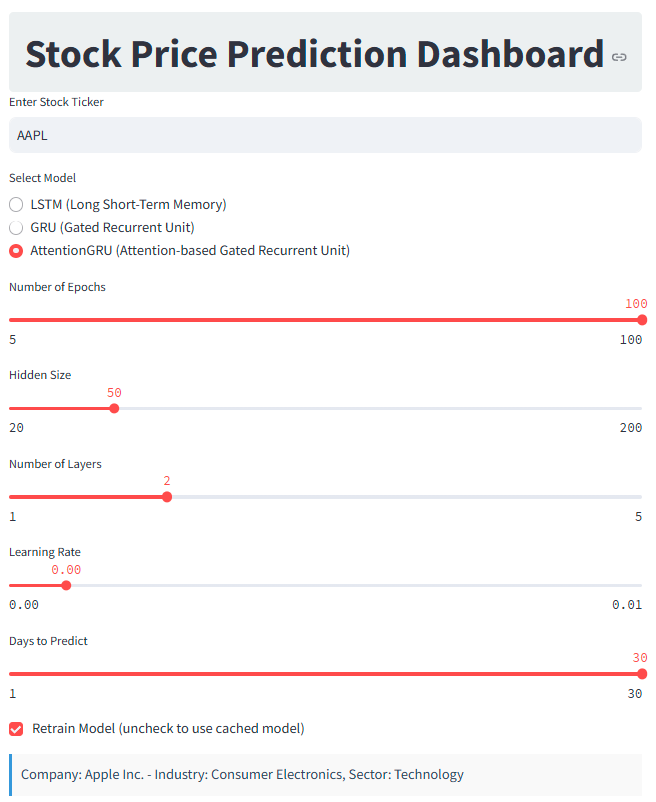
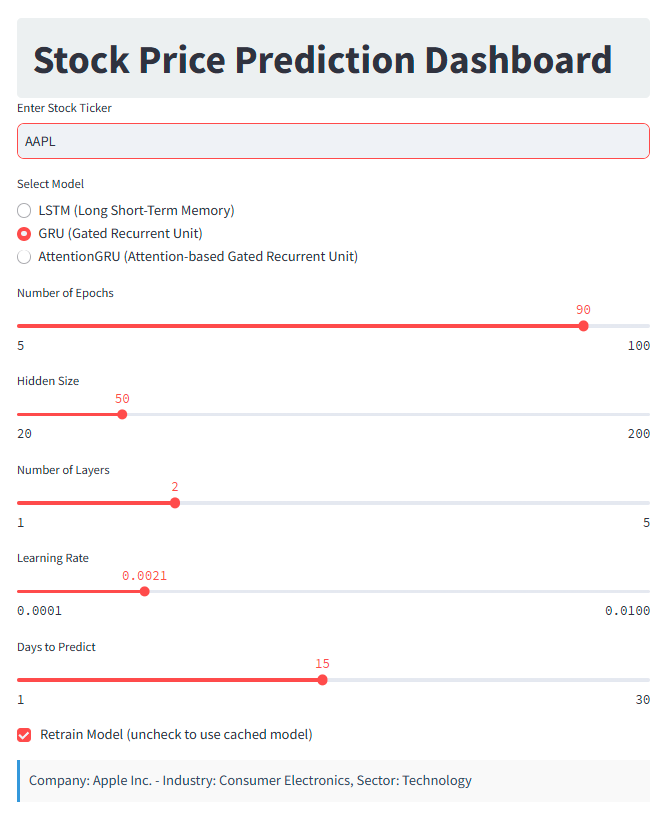
Fixed number of decimal places of Learning Rate slider

diff --git a/app.py b/app.py
@@ -64,7 +64,7 @@ model_type = model_type_full.split(' (')[0]  # Extract short name (e.g., "Attent
 epochs = st.slider("Number of Epochs", min_value=5, max_value=100, value=20, step=5)
 hidden_size = st.slider("Hidden Size", min_value=20, max_value=200, value=50, step=10)
 num_layers = st.slider("Number of Layers", min_value=1, max_value=5, value=2, step=1)
-learning_rate = st.slider("Learning Rate", min_value=0.0001, max_value=0.01, value=0.001, step=0.0001)
+learning_rate = st.slider("Learning Rate", min_value=0.0001, max_value=0.01, value=0.001, step=0.0001, format="%.4f")
 
 # Set days_to_predict slider (default to 5)
 days_to_predict = st.slider("Days to Predict", 1, 30, 5, key="days_slider")
